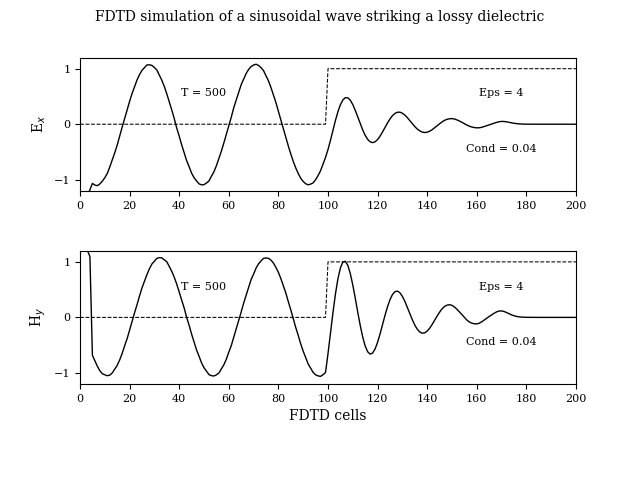
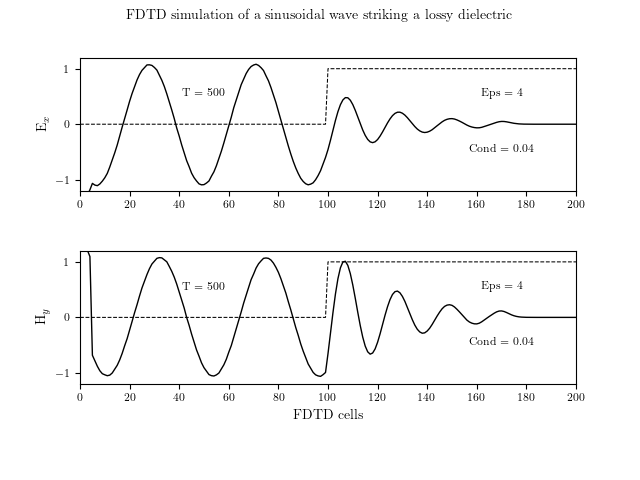
simulation of a propagating sinusoidal wave striking a lossy dielectric material

diff --git a/FD1D/Programs/fd1d_2_1.py b/FD1D/Programs/fd1d_2_1.py
@@ -9,8 +9,8 @@ import matplotlib
 import matplotlib.pyplot as plt
 import numpy as np
 
-# matplotlib.rcParams["text.usetex"] = True
-# matplotlib.rcParams["pgf.texsystem"] = "pdflatex"
+matplotlib.rcParams["text.usetex"] = True
+matplotlib.rcParams["pgf.texsystem"] = "pdflatex"
 matplotlib.rcParams.update(
     {
         "font.family": "serif",
